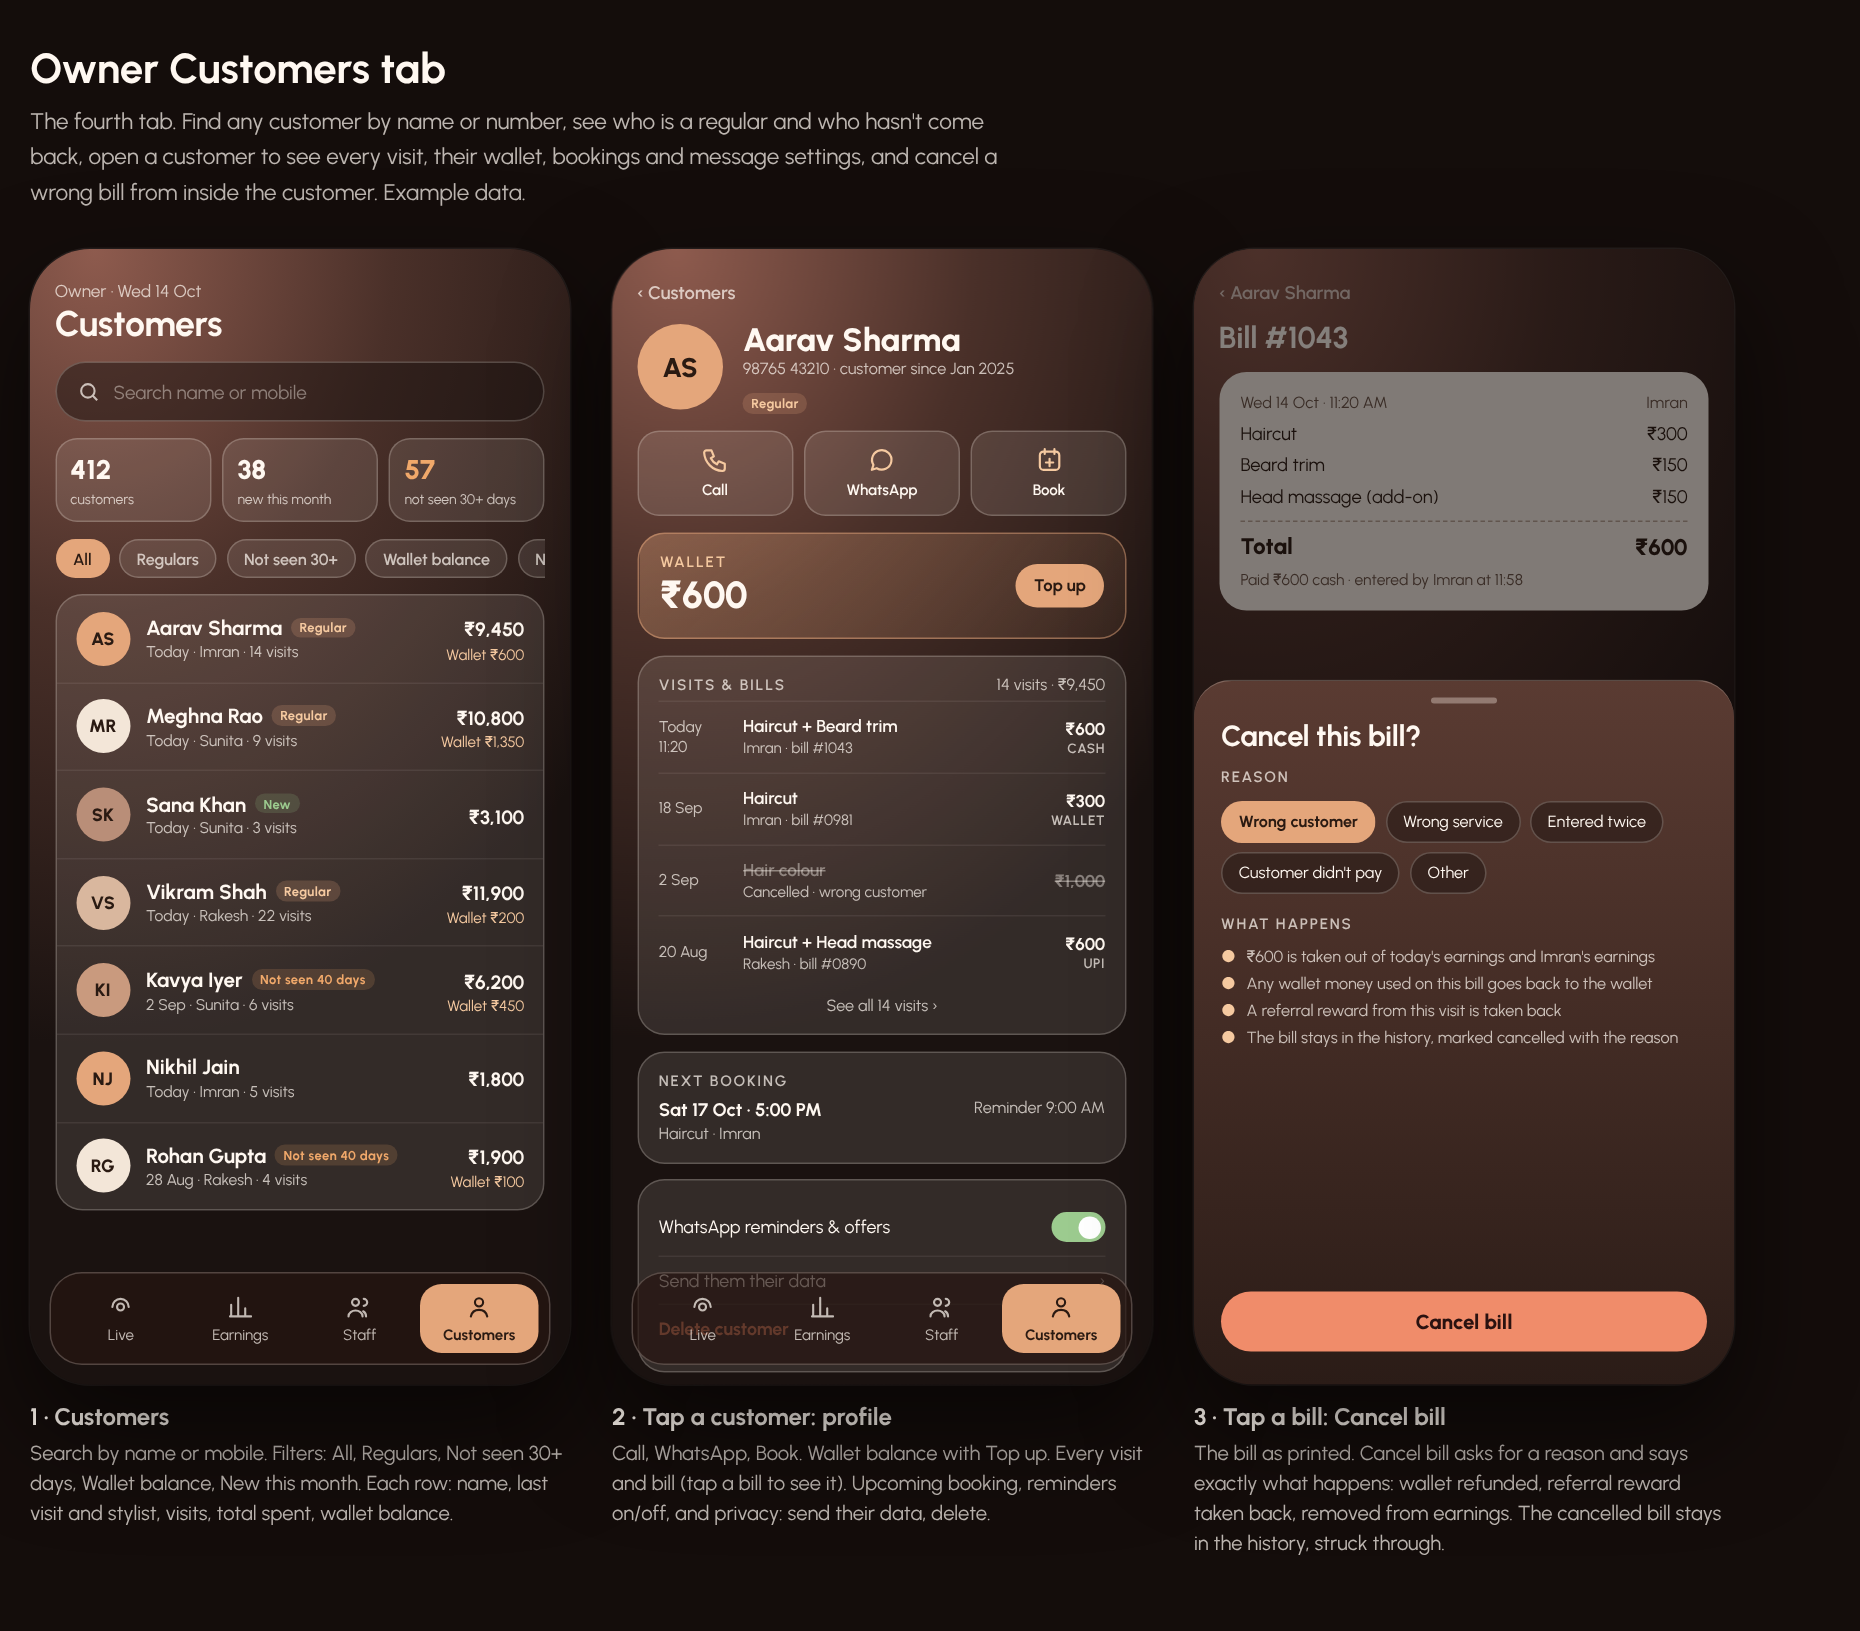
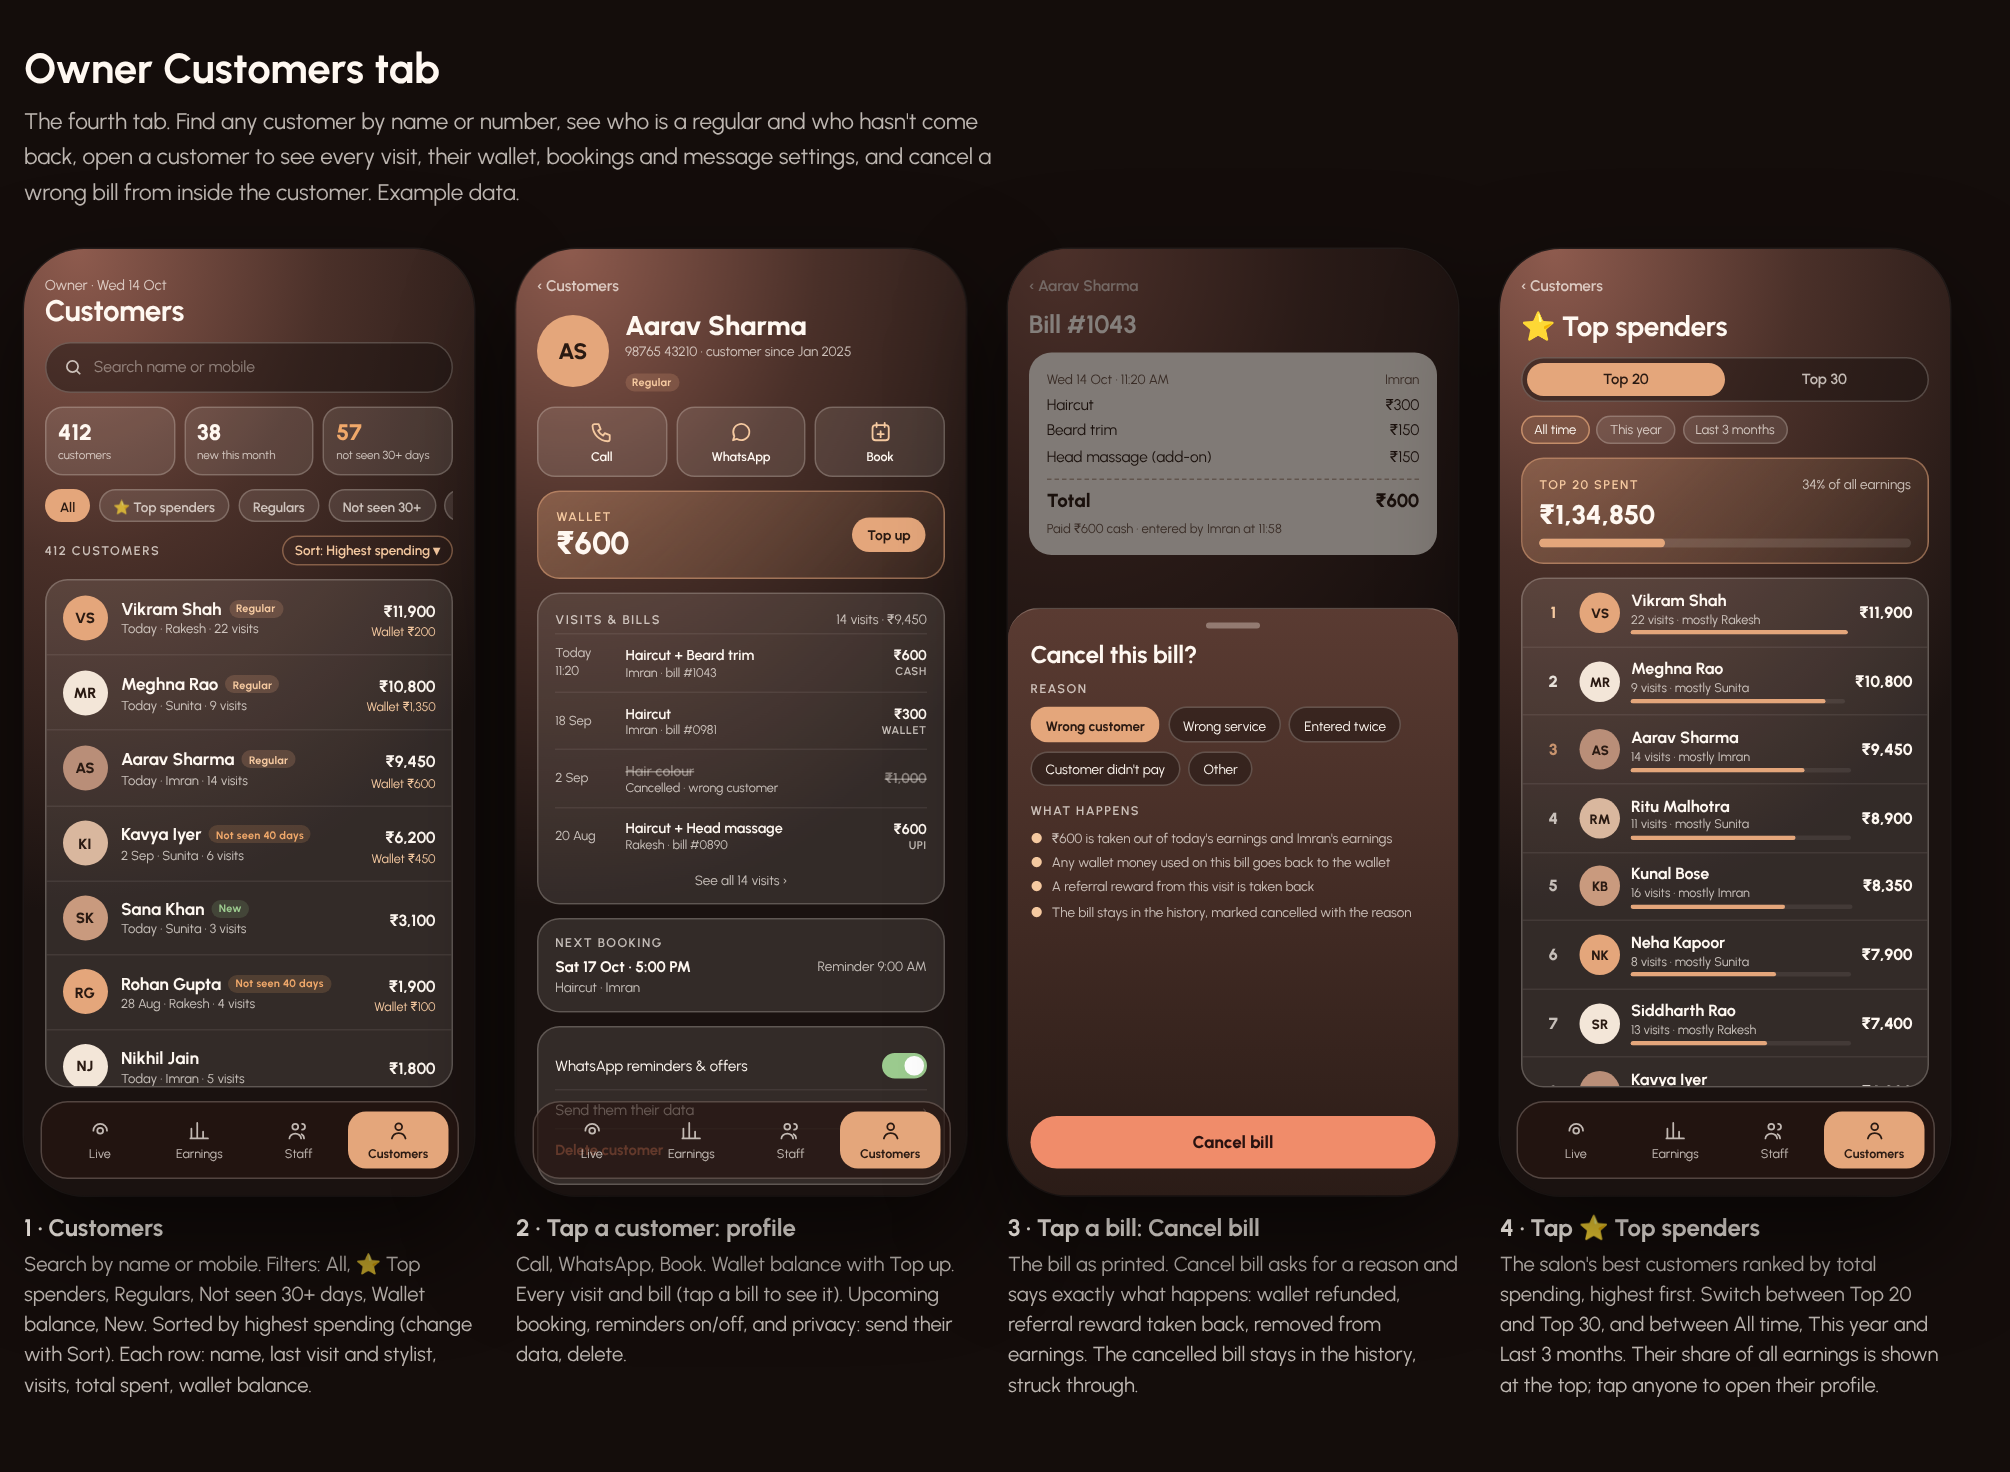
Customers tab: Top 20/30 spenders and sort by highest spending
Claude-Session: https://claude.ai/code/session_01BjSSchZsy6gAdMxf188SpF

diff --git a/salon-mobile/design-studies/owner-customers-tab.html b/salon-mobile/design-studies/owner-customers-tab.html
@@ -13,10 +13,10 @@
 *{box-sizing:border-box;margin:0;padding:0}
 html,body{background:var(--page);color:var(--cream);font-family:var(--font);-webkit-font-smoothing:antialiased}
 body{padding-block:28px 48px;padding-left:max(16px,env(safe-area-inset-left,0px));padding-right:max(16px,env(safe-area-inset-right,0px))}
-.wrap{max-width:1200px;margin:0 auto}
+.wrap{max-width:1320px;margin:0 auto}
 h1{font-size:28px;font-weight:700;text-wrap:balance}
 .lead{color:var(--soft);font-size:15px;line-height:1.55;max-width:74ch;margin-top:8px}
-.trio{display:grid;grid-template-columns:repeat(auto-fit,minmax(280px,360px));gap:28px;margin-top:26px;justify-content:start}
+.trio{display:grid;grid-template-columns:repeat(auto-fit,minmax(260px,300px));gap:28px;margin-top:26px;justify-content:start}
 figcaption{margin-top:12px}
 figcaption b{display:block;font-size:16px}
 figcaption span{display:block;color:var(--soft);font-size:13.5px;line-height:1.5;margin-top:4px}
@@ -93,6 +93,25 @@ figcaption span{display:block;color:var(--soft);font-size:13.5px;line-height:1.5
 .eff div{display:flex;gap:2cqw;align-items:flex-start}
 .eff i{font-style:normal;color:var(--gold2)}
 .cancel{margin-top:auto;padding:3.4cqw;border-radius:999px;background:var(--red);color:#2a1210;font-weight:800;font-size:3.8cqw;text-align:center}
+.sort{font-size:3cqw;font-weight:600;color:var(--gold2);padding:1.2cqw 2.6cqw;border-radius:999px;border:1px solid rgba(228,166,123,.45)}
+.seg{display:grid;grid-template-columns:1fr 1fr;padding:1cqw;border-radius:999px;background:rgba(26,18,16,.5);border:1px solid var(--line)}
+.seg span{text-align:center;font-size:3.3cqw;font-weight:600;padding:1.8cqw 0;border-radius:999px;color:var(--soft)}
+.seg span.on{background:var(--gold);color:var(--ink)}
+.pchips{display:flex;gap:1.6cqw}
+.pchips span{font-size:2.9cqw;padding:1.3cqw 2.6cqw;border-radius:999px;background:var(--glass);border:1px solid var(--line);color:var(--soft)}
+.pchips span.on{color:var(--cream);border-color:rgba(228,166,123,.7);background:rgba(228,166,123,.18)}
+.share{padding:3.4cqw 3.8cqw;border-radius:5cqw;background:linear-gradient(135deg,rgba(228,166,123,.3),rgba(228,166,123,.08));border:1px solid rgba(228,166,123,.5);display:grid;gap:1.6cqw}
+.share b{font-size:6cqw;font-weight:800;font-variant-numeric:tabular-nums}
+.sbar{height:2cqw;border-radius:999px;background:rgba(255,244,236,.12);overflow:hidden}.sbar i{display:block;height:100%;width:34%;background:var(--gold);border-radius:inherit}
+.rank{display:grid;grid-template-columns:7cqw 9cqw 1fr auto;gap:2.4cqw;align-items:center;padding:2.5cqw 3.4cqw;border-top:1px solid rgba(255,244,236,.08)}
+.rank:first-child{border-top:0}
+.rank .n{font-size:3.6cqw;font-weight:800;color:var(--soft);text-align:center;font-variant-numeric:tabular-nums}
+.rank .n.m1{color:#F5C9A0}.rank .n.m2{color:#E8E2DA}.rank .n.m3{color:#C9946E}
+.rank .av{width:9cqw;height:9cqw;font-size:3cqw}
+.rank .nm{font-size:3.6cqw;font-weight:700}
+.rank .sub{font-size:2.8cqw;color:var(--soft);margin-top:.3cqw}
+.rank .amt{text-align:right;font-weight:800;font-size:3.6cqw;font-variant-numeric:tabular-nums}
+.rank .bar{height:1cqw;border-radius:999px;background:rgba(255,244,236,.08);margin-top:.9cqw;overflow:hidden}.rank .bar i{display:block;height:100%;background:var(--gold);border-radius:inherit}
 .dock{position:absolute;left:3.5cqw;right:3.5cqw;bottom:3.5cqw;display:grid;grid-template-columns:repeat(4,1fr);padding:2cqw;border-radius:6cqw;background:rgba(38,22,17,.7);border:1px solid var(--line);z-index:5}
 .dock span{display:flex;flex-direction:column;align-items:center;gap:.8cqw;font-size:2.8cqw;color:var(--soft);padding:1.6cqw 0;border-radius:4cqw}
 .dock span.on{background:var(--gold);color:var(--ink);font-weight:700}
@@ -103,9 +122,10 @@ figcaption span{display:block;color:var(--soft);font-size:13.5px;line-height:1.5
   <h1>Owner Customers tab</h1>
   <p class="lead">The fourth tab. Find any customer by name or number, see who is a regular and who hasn't come back, open a customer to see every visit, their wallet, bookings and message settings, and cancel a wrong bill from inside the customer. Example data.</p>
   <div class="trio">
-    <figure><div class="phone" id="c1"></div><figcaption><b>1 · Customers</b><span>Search by name or mobile. Filters: All, Regulars, Not seen 30+ days, Wallet balance, New this month. Each row: name, last visit and stylist, visits, total spent, wallet balance.</span></figcaption></figure>
+    <figure><div class="phone" id="c1"></div><figcaption><b>1 · Customers</b><span>Search by name or mobile. Filters: All, ⭐ Top spenders, Regulars, Not seen 30+ days, Wallet balance, New. Sorted by highest spending (change with Sort). Each row: name, last visit and stylist, visits, total spent, wallet balance.</span></figcaption></figure>
     <figure><div class="phone" id="c2"></div><figcaption><b>2 · Tap a customer: profile</b><span>Call, WhatsApp, Book. Wallet balance with Top up. Every visit and bill (tap a bill to see it). Upcoming booking, reminders on/off, and privacy: send their data, delete.</span></figcaption></figure>
     <figure><div class="phone" id="c3"></div><figcaption><b>3 · Tap a bill: Cancel bill</b><span>The bill as printed. Cancel bill asks for a reason and says exactly what happens: wallet refunded, referral reward taken back, removed from earnings. The cancelled bill stays in the history, struck through.</span></figcaption></figure>
+    <figure><div class="phone" id="c4"></div><figcaption><b>4 · Tap ⭐ Top spenders</b><span>The salon's best customers ranked by total spending, highest first. Switch between Top 20 and Top 30, and between All time, This year and Last 3 months. Their share of all earnings is shown at the top; tap anyone to open their profile.</span></figcaption></figure>
   </div>
 </div>
 
@@ -126,8 +146,9 @@ document.getElementById('c1').innerHTML=`<div class="scr">
   <div><div class="who">Owner · Wed 14 Oct</div><div class="ttl">Customers</div></div>
   <div class="search"><svg viewBox="0 0 24 24"><circle cx="11" cy="11" r="6.5"/><path d="M20 20l-4-4"/></svg>Search name or mobile</div>
   <div class="kpis"><div class="kpi"><b>412</b><span>customers</span></div><div class="kpi"><b>38</b><span>new this month</span></div><div class="kpi"><b style="color:var(--warn)">57</b><span>not seen 30+ days</span></div></div>
-  <div class="filters"><span class="on">All</span><span>Regulars</span><span>Not seen 30+</span><span>Wallet balance</span><span>New</span></div>
-  <div class="list">${C.map(([n,i,l,v,t,w,k],x)=>`<div class="cust"><div class="av" style="background:${COLS[x%5]}">${i}</div>
+  <div class="filters"><span class="on">All</span><span>⭐ Top spenders</span><span>Regulars</span><span>Not seen 30+</span><span>Wallet balance</span><span>New</span></div>
+  <div style="display:flex;justify-content:space-between;align-items:center"><span class="lbl">412 customers</span><span class="sort">Sort: Highest spending ▾</span></div>
+  <div class="list">${[...C].sort((a,b)=>parseInt(b[4].replace(/\D/g,''))-parseInt(a[4].replace(/\D/g,''))).map(([n,i,l,v,t,w,k],x)=>`<div class="cust"><div class="av" style="background:${COLS[x%5]}">${i}</div>
     <div><div class="nm">${n} ${TAG[k]}</div><div class="sub">${l} · ${v} visits</div></div>
     <div class="r"><b>${t}</b>${w?`<div class="wal">Wallet ${w}</div>`:''}</div></div>`).join('')}</div>
   </div><div class="dock">${DOCK}</div>`;
@@ -179,5 +200,19 @@ document.getElementById('c3').innerHTML=`<div class="scr">
       <div><i>●</i>The bill stays in the history, marked cancelled with the reason</div>
     </div>
     <div class="cancel">Cancel bill</div>
+  </div><div class="dock">${DOCK}</div>`;
+
+const TOP=[['Vikram Shah',22,11900,'Rakesh'],['Meghna Rao',9,10800,'Sunita'],['Aarav Sharma',14,9450,'Imran'],['Ritu Malhotra',11,8900,'Sunita'],['Kunal Bose',16,8350,'Imran'],['Neha Kapoor',8,7900,'Sunita'],['Siddharth Rao',13,7400,'Rakesh'],['Kavya Iyer',6,6200,'Sunita'],['Farhan Qureshi',12,5900,'Imran'],['Pallavi Desai',7,5650,'Sunita'],['Amit Joshi',15,5400,'Rakesh'],['Tanya Mehra',5,5100,'Sunita'],['Rahul Jain',10,4800,'Rakesh'],['Ishaan Verma',9,4550,'Imran'],['Divya Nair',6,4300,'Sunita'],['Arjun Mehta',8,4100,'Rakesh'],['Sneha Kulkarni',5,3900,'Sunita'],['Manish Gupta',11,3750,'Imran'],['Pooja Reddy',4,3600,'Sunita'],['Sana Khan',3,3100,'Sunita']];
+const ini=n=>n.split(' ').map(w=>w[0]).join('');
+const mx=TOP[0][2];
+document.getElementById('c4').innerHTML=`<div class="scr">
+  <button class="back">‹ Customers</button>
+  <div class="ttl" style="font-size:6.2cqw">⭐ Top spenders</div>
+  <div class="seg"><span class="on">Top 20</span><span>Top 30</span></div>
+  <div class="pchips"><span class="on">All time</span><span>This year</span><span>Last 3 months</span></div>
+  <div class="share"><div style="display:flex;justify-content:space-between;align-items:baseline"><span class="lbl" style="color:var(--gold2)">Top 20 spent</span><span class="sm">34% of all earnings</span></div><b>₹1,34,850</b><div class="sbar"><i></i></div></div>
+  <div class="list">${TOP.map(([n,v,a,st],k)=>`<div class="rank"><div class="n ${k<3?'m'+(k+1):''}">${k+1}</div><div class="av" style="background:${COLS[k%5]}">${ini(n)}</div>
+    <div style="min-width:0"><div class="nm">${n}</div><div class="sub">${v} visits · mostly ${st}</div><div class="bar"><i style="width:${(a/mx*100).toFixed(0)}%"></i></div></div>
+    <div class="amt">₹${a.toLocaleString('en-IN')}</div></div>`).join('')}</div>
   </div><div class="dock">${DOCK}</div>`;
 </script>

diff --git a/salon-mobile/BUILD-SPEC.md b/salon-mobile/BUILD-SPEC.md
@@ -82,7 +82,7 @@ Where things live:
 | 6.4 | **Attendance**: today's selfies (green on time / orange late), month grid per person, **Excel export (one sheet per day + summary)** with barber-pole progress | Logic · Designed · **19 Oct: moves into the Staff tab** (no separate Attendance tab) |
 | 6.5 | **Staff tab** (user, 19 Oct): grid of **rectangular photo cards** (profile photo, name, chair, today's attendance badge In/Late/On leave/Not in yet, today's customers + earnings); **gold + button lower right** opens *Add a stylist* (**owner uploads the photo** from gallery or camera, name, mobile = login, chair, shift start, weekly off, first password). **Tap a card → profile**: photo, contact, today's status, October at a glance (present/late/leave/customers), options: Attendance (calendar, selfie, export), Leave, Shift & weekly off, Performance, Account (photo, mobile, chair, reset password), Deactivate. **Salary & commission and Advances removed (user, 19 Oct).** `design-studies/owner-staff-tab.html` | **Approved / final (19 Oct)** |
 | 6.6 | **Visits**: every visit, **void with reason** (refunds wallet, reverses referral) | Logic · Designed · **19 Oct: voiding a bill moves to the Customers tab** (open the customer → their bill → Void with reason) |
-| 6.7 | **Customers tab** (19 Oct): search name/mobile; counts (customers, new this month, not seen 30+ days); filters All · Regulars · Not seen 30+ · Wallet balance · New; rows: name, tag, last visit + stylist, visits, total spent, wallet. **Tap → profile**: Call, WhatsApp, Book; wallet + Top up; visits & bills (tap a bill); next booking; reminders on/off; send their data; delete. **Tap a bill → Cancel bill** with reason (wrong customer / wrong service / entered twice / didn't pay / other) and a plain list of what happens; cancelled bills stay struck through. `design-studies/owner-customers-tab.html` | Designed · awaiting user approval |
+| 6.7 | **Customers tab** (19 Oct): search name/mobile; counts (customers, new this month, not seen 30+ days); filters All · **⭐ Top spenders** · Regulars · Not seen 30+ · Wallet balance · New; list **sorted by highest spending** (Sort control); **Top spenders** screen (user, 19 Oct): Top 20 / Top 30 switch, All time / This year / Last 3 months, ranked highest first with spend bar, visits and main stylist, total and share of all earnings; rows: name, tag, last visit + stylist, visits, total spent, wallet. **Tap → profile**: Call, WhatsApp, Book; wallet + Top up; visits & bills (tap a bill); next booking; reminders on/off; send their data; delete. **Tap a bill → Cancel bill** with reason (wrong customer / wrong service / entered twice / didn't pay / other) and a plain list of what happens; cancelled bills stay struck through. `design-studies/owner-customers-tab.html` | **Approved (19 Oct)** |
 | 6.8 | Wallet money held, top customers (scroll down on Earnings) | Logic |
 
 ## 7. Motion (from `MOTION.md`)
